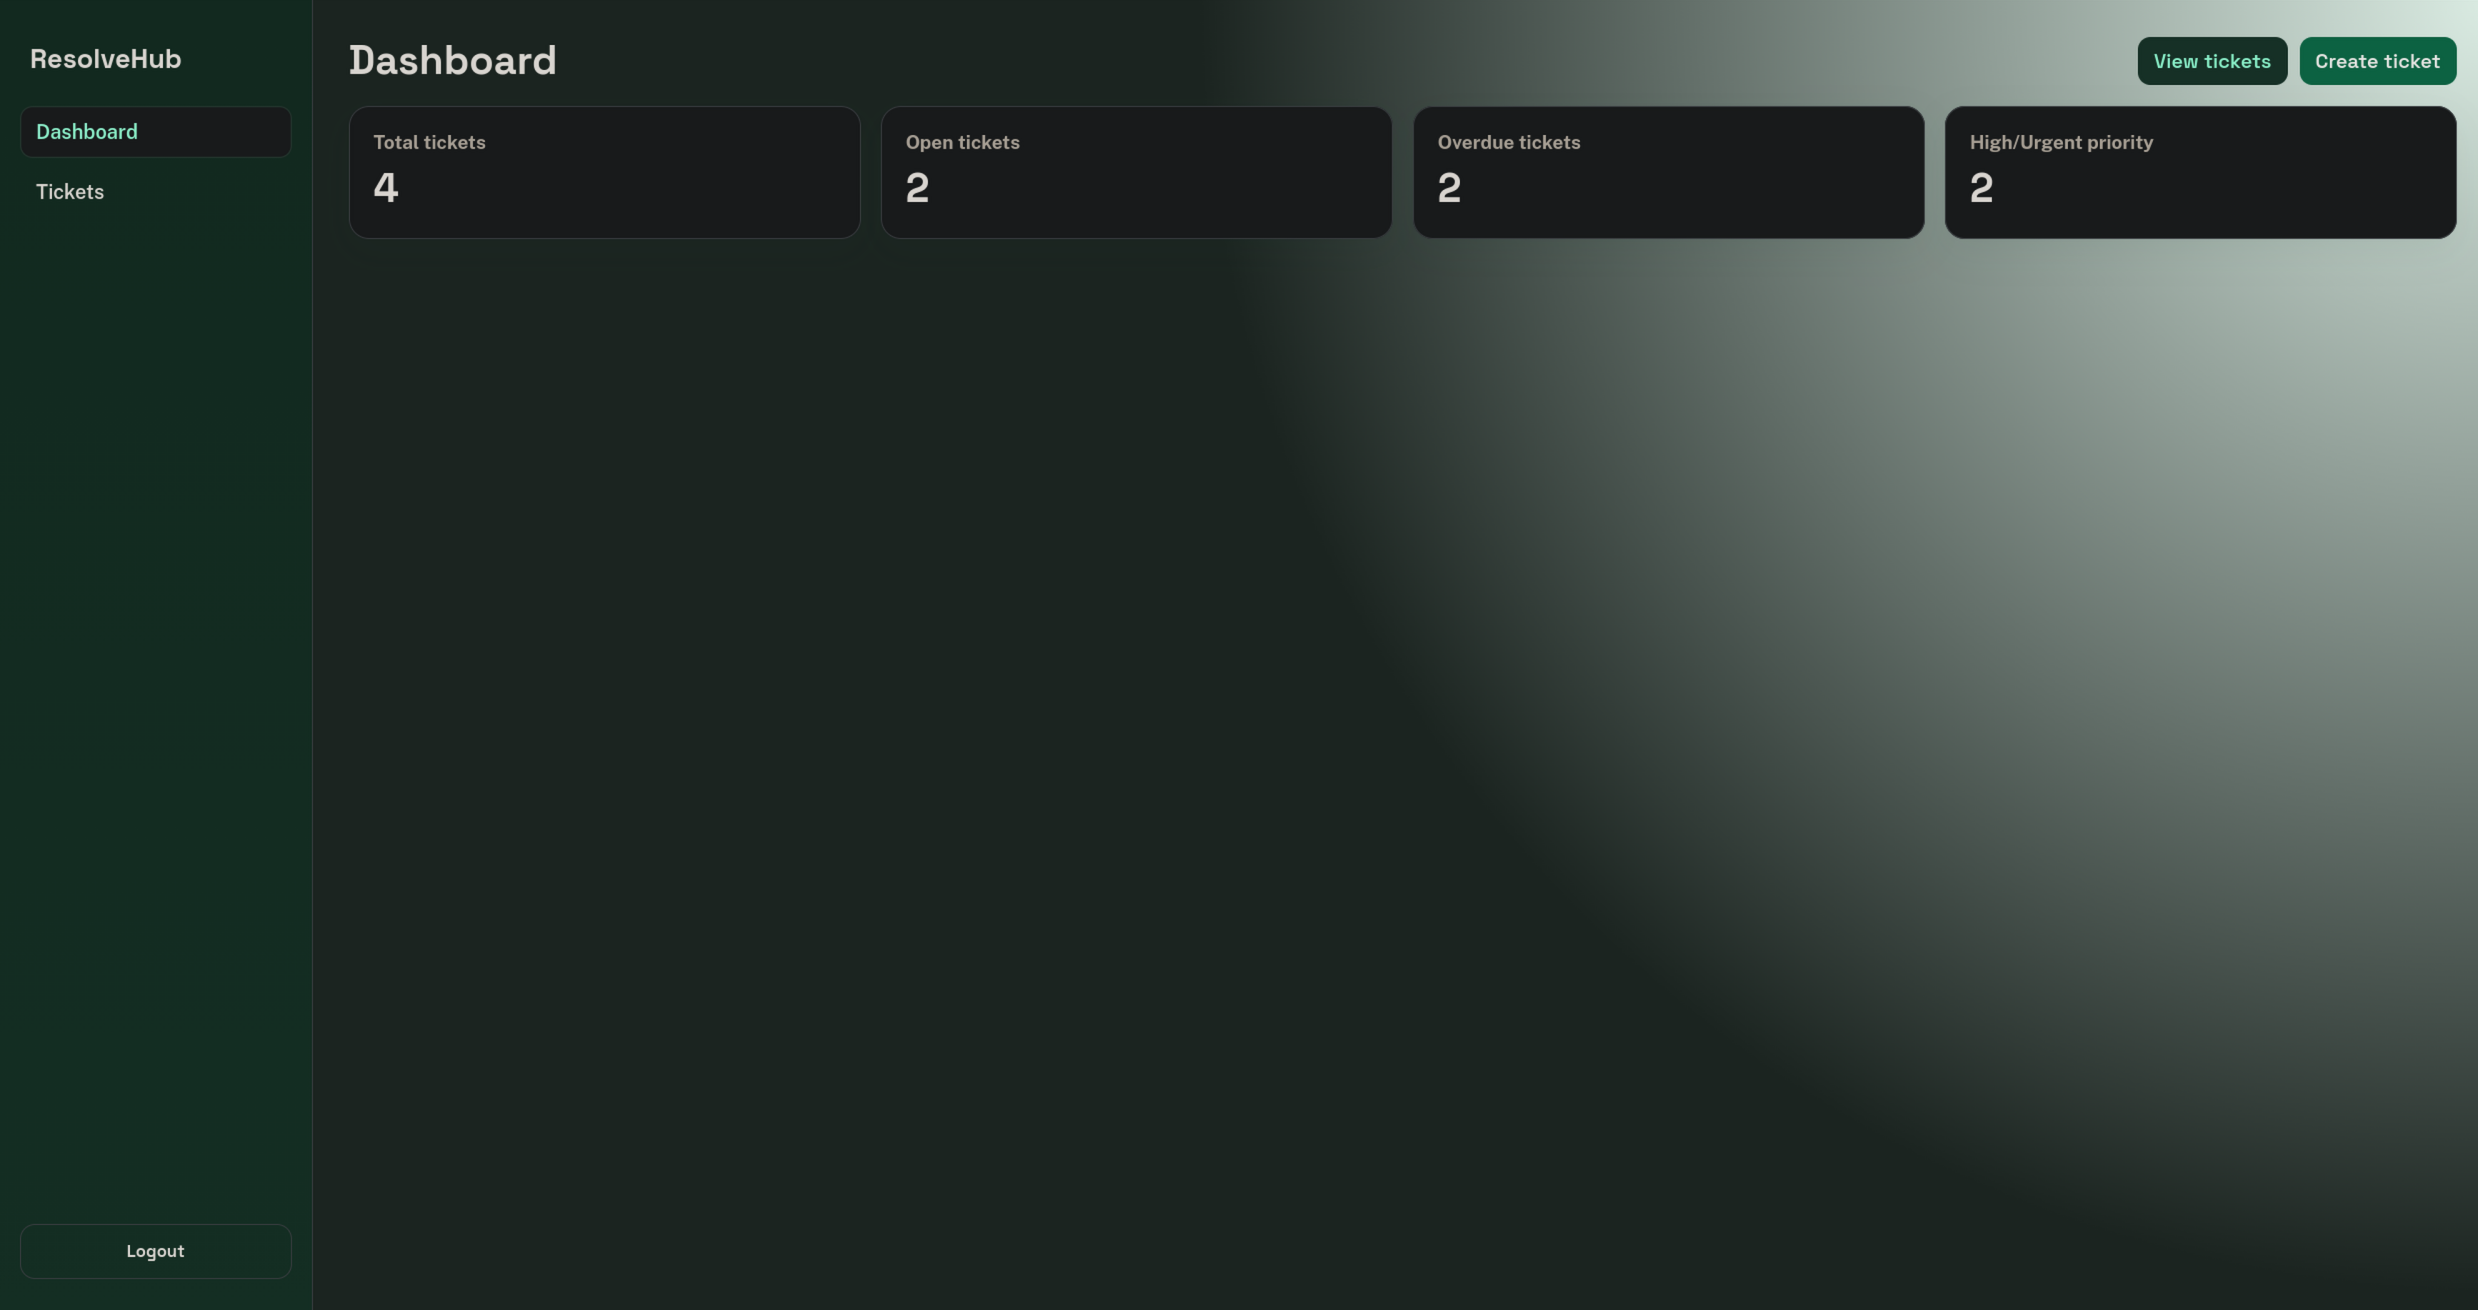
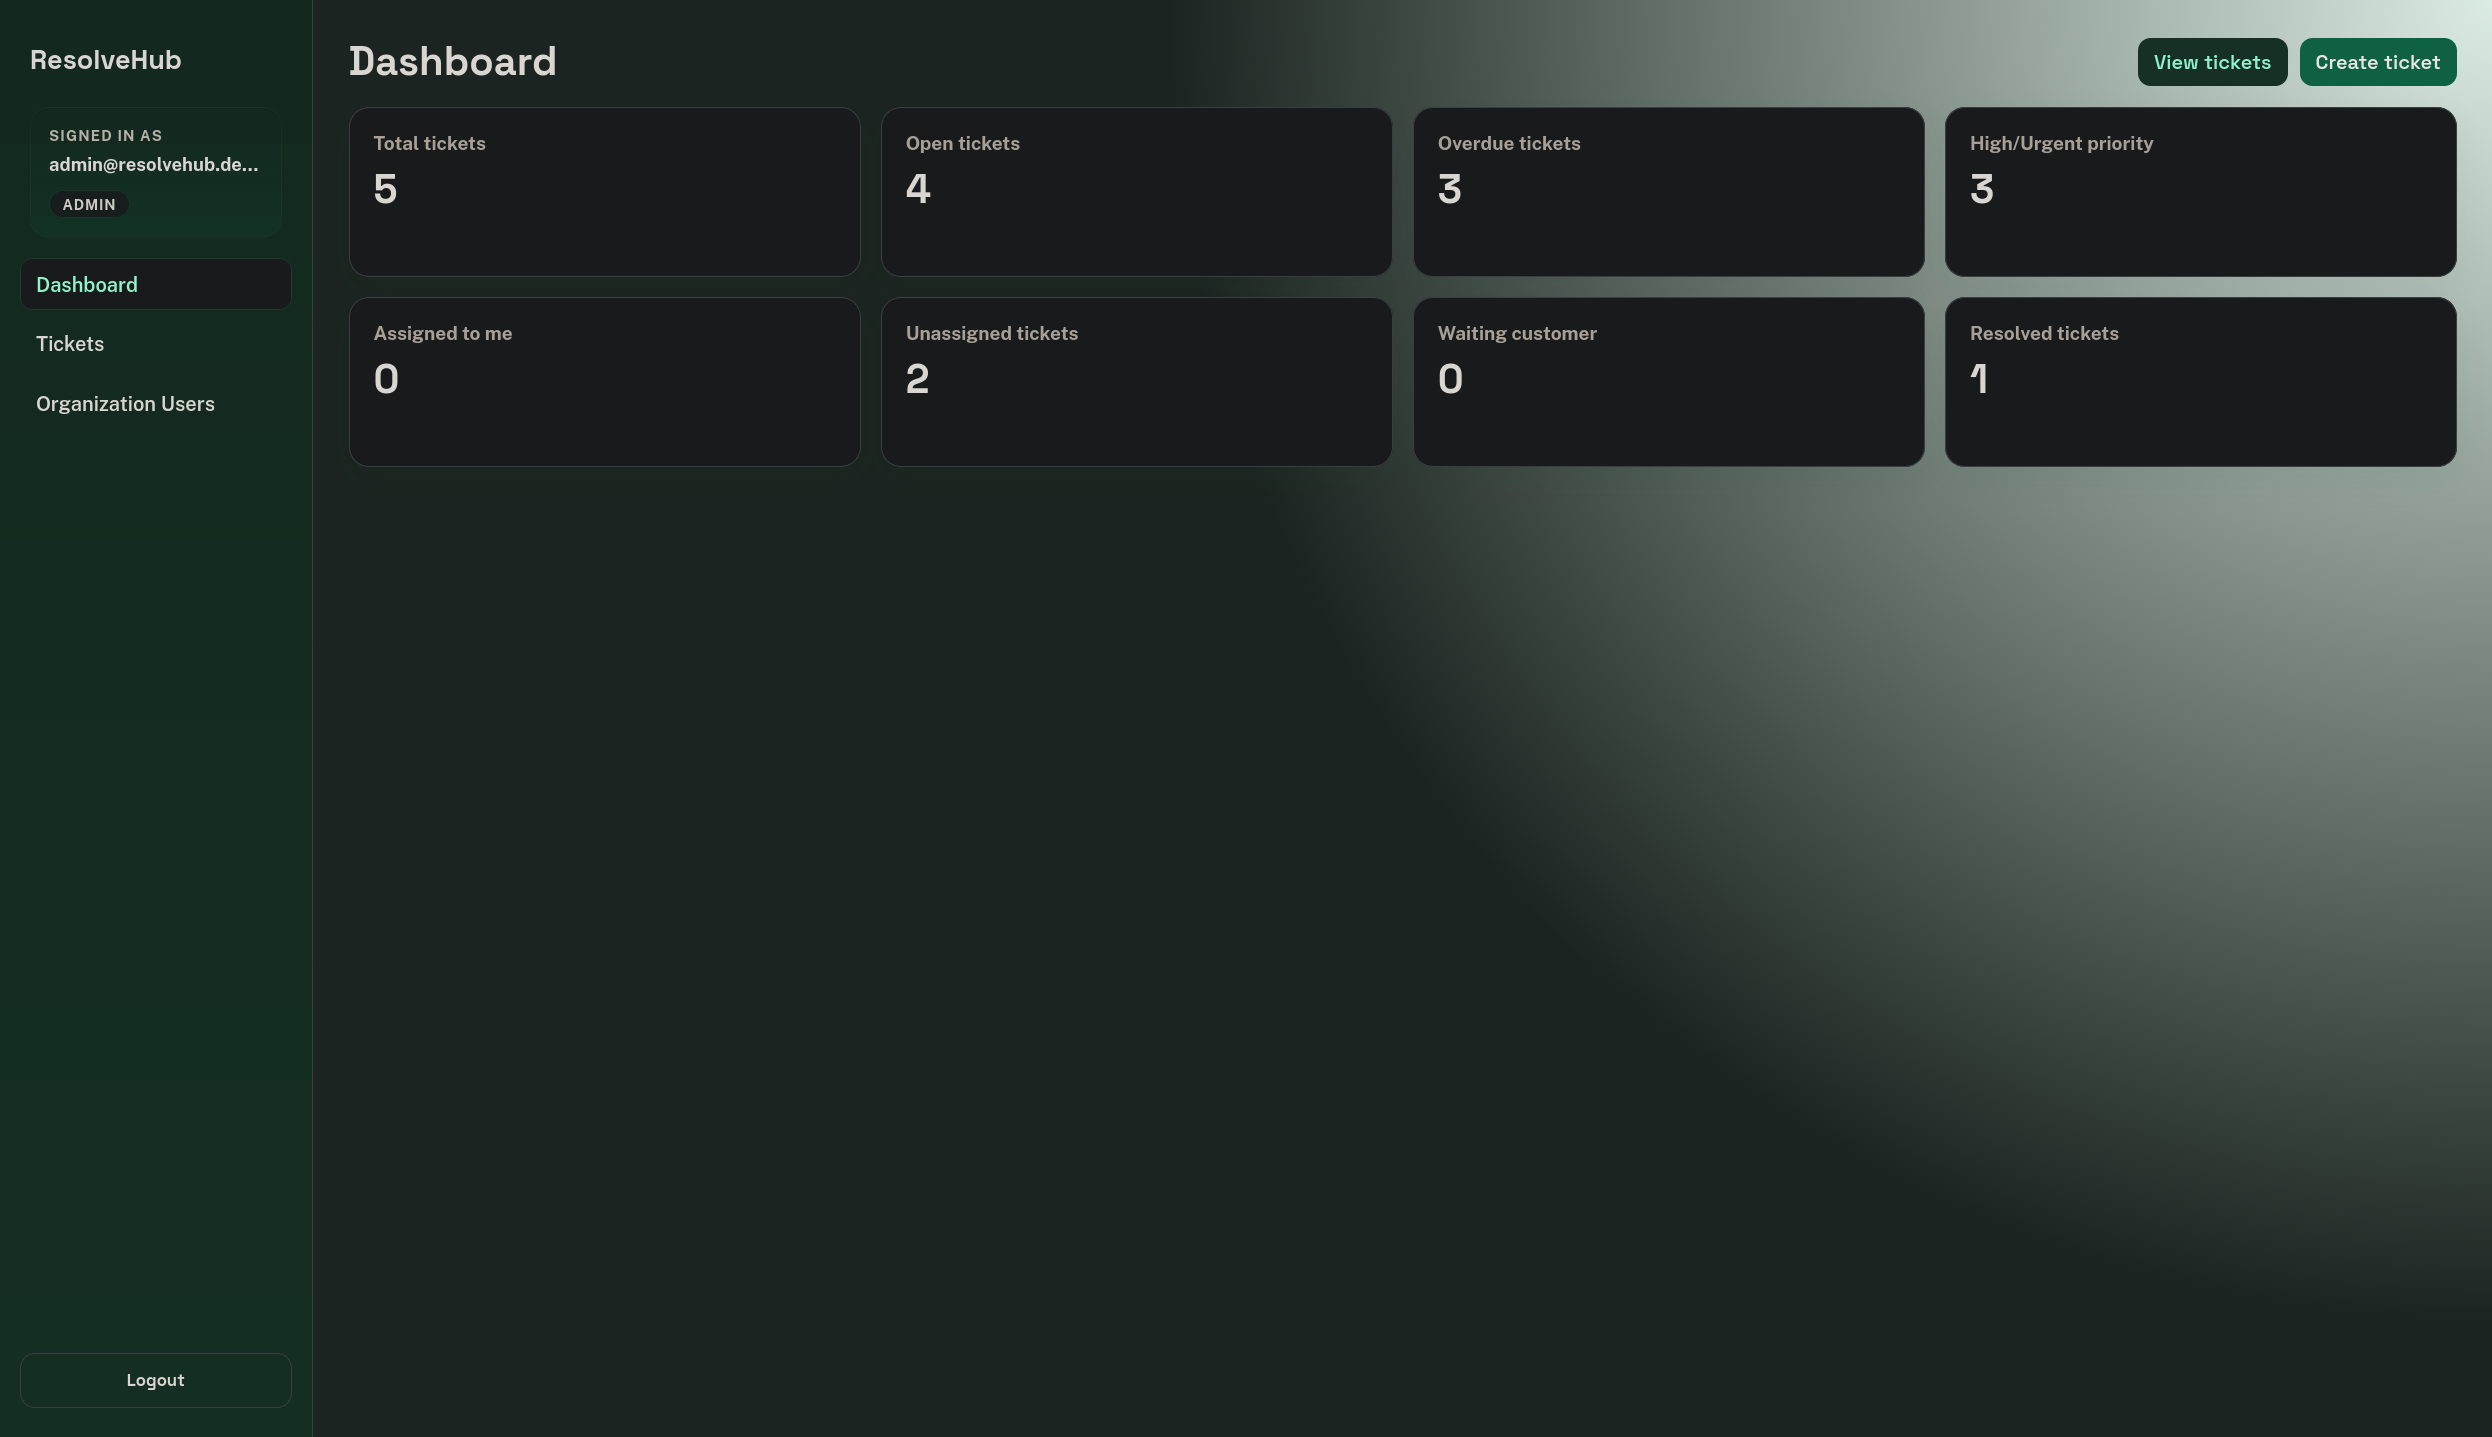
docs: update project status and screenshots

diff --git a/README.md b/README.md
@@ -8,6 +8,7 @@ ResolveHub is a portfolio-ready full-stack customer support ticket platform. It 
 - Backend health: https://resolvehub-0ssp.onrender.com/actuator/health
 - API docs: https://resolvehub-0ssp.onrender.com/swagger-ui/index.html
 - Hosted demo data guide: [docs/demo-data.md](docs/demo-data.md)
+- Deployment: Hosted on Render (frontend static site + backend web service + managed PostgreSQL)
 
 Note: the hosted backend may take a moment to wake up on the first request.
 
@@ -25,16 +26,24 @@ Note: the hosted backend may take a moment to wake up on the first request.
 
 - Organization-based multi-tenancy
 - JWT authentication and role-based access control
+- Frontend registration flow for new organizations and initial admin onboarding
+- Organization user management (list + create users with role constraints)
 - Ticket creation, listing, detail view, and status workflow
+- Staff ticket creation on behalf of customers
+- Human-readable ticket numbers (`RH-1001`, `RH-1002`, ...) with UUIDs retained for internal routing
+- Searchable customer selector for staff requester selection
+- Role-aware dashboard metrics for customer and staff personas
 - Ticket comments (public/internal rules by role)
 - Ticket assignment with role constraints
 - SLA deadline calculation and overdue detection
+- Expired-session handling (JWT `exp` checks + authenticated `401` recovery to login)
 - Ticket audit logs
 - AI-assisted ticket classification (advisory suggestions)
 - Manual apply workflow for AI category/priority suggestions
 - Ticket search and filtering (search, status, priority, category, overdue)
+- Render deployment (frontend + backend + managed PostgreSQL)
 - Dev demo data seeding
-- CI with GitHub Actions
+- GitHub Actions CI
 
 ## Demo Walkthrough
 
@@ -59,7 +68,9 @@ This walkthrough highlights portfolio-relevant product behavior, including role-
 ## Role Behavior
 
 - `CUSTOMER`: creates tickets and views/comments on own tickets
-- `AGENT`, `MANAGER`, `ADMIN`: manage tickets in their organization
+- `AGENT`: manages tickets in own organization and can create tickets on behalf of customers
+- `MANAGER`: manages tickets, can create tickets on behalf of customers, and can create organization users (`CUSTOMER`, `AGENT`)
+- `ADMIN`: full organization ticket management, can create tickets on behalf of customers, and can create organization users (`CUSTOMER`, `AGENT`, `MANAGER`, `ADMIN`)
 
 ## Tech Stack
 
@@ -80,8 +91,11 @@ Frontend:
 - Vitest
 
 Infrastructure:
+- Docker
 - Docker Compose
 - GitHub Actions
+- Render
+- Managed PostgreSQL
 
 ## Architecture Overview
 
@@ -117,7 +131,7 @@ docker compose up -d ollama
 
 ```bash
 cd backend
-./mvnw spring-boot:run
+SPRING_PROFILES_ACTIVE=dev ./mvnw spring-boot:run
 ```
 
 Backend runs on `http://localhost:8080`.
@@ -182,16 +196,19 @@ When running backend with default `dev` profile, demo data is seeded:
 
 See [docs/ai-provider-design.md](docs/ai-provider-design.md).
 
-## CI Status
+## CI/CD Status
 
 GitHub Actions workflow: [`.github/workflows/ci.yml`](.github/workflows/ci.yml)
 
-Current CI jobs:
+GitHub Actions currently provides CI (validation, test, and build checks):
 - repository validation
 - backend build and tests (`./mvnw clean verify`)
 - frontend build and tests (`npm run build`, `npm test -- --run`)
 - backend Docker image build validation
 - frontend Docker image build validation
+
+Deployment is hosted on Render (frontend, backend, and managed PostgreSQL).
+Auto-deploy behavior depends on your Render service settings and branch configuration.
 
 ## Documentation
 
@@ -204,7 +221,9 @@ Current CI jobs:
 
 ## Roadmap
 
-- Deployment automation / CD
-- Ticket list pagination and server-side filtering
-- Production-ready frontend/API integration tests
-- Production hardening (observability, secrets management, security controls)
+- Server-side pagination and filtering for high-volume ticket lists
+- End-to-end workflow tests across frontend and backend
+- Refresh-token support and session lifecycle hardening
+- Observability (centralized logs, traces, metrics, and alerting)
+- Custom domain and production TLS hardening for hosted environments
+- Secrets and security hardening for production operations

diff --git a/docs/architecture.md b/docs/architecture.md
@@ -62,7 +62,8 @@ Spring Boot API
 
 ### Ticket
 
-- `id`
+- `id` (UUID internal key)
+- `ticketNumber` (human-readable reference, e.g., `RH-1001`)
 - `organization`
 - `requester`
 - `assignee` (nullable)
@@ -108,14 +109,27 @@ Spring Boot API
 ## Role Behavior
 
 - `CUSTOMER`
-  - can create tickets
+  - can create tickets for self
   - can list/view only own tickets
   - can comment only on own tickets
   - cannot create internal comments
   - cannot assign tickets
   - cannot view audit logs
-- `AGENT`, `MANAGER`, `ADMIN`
+- `AGENT`
   - can list/view tickets in own organization
+  - can create tickets on behalf of customers in own organization
+  - can create internal/public comments in own organization
+  - can request AI classification
+- `MANAGER`
+  - can list/view tickets in own organization
+  - can create tickets on behalf of customers in own organization
+  - can create organization users with roles `CUSTOMER` or `AGENT`
+  - can create internal/public comments in own organization
+  - can request AI classification
+- `ADMIN`
+  - can list/view tickets in own organization
+  - can create tickets on behalf of customers in own organization
+  - can create organization users with roles `CUSTOMER`, `AGENT`, `MANAGER`, or `ADMIN`
   - can create internal/public comments in own organization
   - can request AI classification
 - Assignment-specific behavior:

diff --git a/docs/testing-strategy.md b/docs/testing-strategy.md
@@ -32,7 +32,7 @@ Examples:
 
 ```text
 Ticket cannot move from CLOSED to RESOLVED.
-Customer cannot close a ticket directly.
+Customer can only use customer-approved status transitions.
 URGENT ticket receives shorter SLA deadline than HIGH ticket.
 Ticket creation succeeds when AI provider throws exception.
 ```
@@ -177,12 +177,11 @@ A frontend feature is done when:
 
 ## CI expectations
 
-GitHub Actions should run:
+GitHub Actions CI should run:
 
-- Backend build
-- Backend tests
-- Frontend install
-- Frontend build
-- Frontend tests, once configured
+- Backend build and tests
+- Frontend install/build/tests
+- Backend Docker image build validation
+- Frontend Docker image build validation
 
-The CI should start as a skeleton and become stricter as implementation grows.
+CI should remain strict enough to catch regressions in authorization, multi-tenancy, and workflow behavior.

diff --git a/docs/v1.0.0-readiness-checklist.md b/docs/v1.0.0-readiness-checklist.md
@@ -9,6 +9,8 @@ Use this checklist before tagging a portfolio release.
 - [x] Ticket lifecycle includes creation, comments, status workflow, assignment, SLA/overdue, and audit logs.
 - [x] AI workflow includes suggestion endpoint and manual apply endpoint (no auto-apply).
 - [x] Ticket list supports search and filtering (status, priority, category, overdue).
+- [x] Human-readable ticket numbers are visible in ticket list/detail views.
+- [x] Staff can create tickets on behalf of customers with requester selection.
 
 ## Backend Release Checks
 

diff --git a/docs/demo-data.md b/docs/demo-data.md
@@ -21,8 +21,8 @@ That first `ADMIN` user can then create additional users inside the same organiz
 
 Within an organization:
 
-- `ADMIN` can create `CUSTOMER`, `AGENT`, and `MANAGER` users.
-- `MANAGER` can create `CUSTOMER`, `AGENT`, and `MANAGER` users.
+- `ADMIN` can create `CUSTOMER`, `AGENT`, `MANAGER`, and `ADMIN` users.
+- `MANAGER` can create `CUSTOMER` and `AGENT` users.
 - `CUSTOMER` cannot create users.
 - `AGENT` cannot create users.
 

diff --git a/docs/deployment.md b/docs/deployment.md
@@ -29,7 +29,7 @@ docker compose up -d ollama
 
 ```bash
 cd backend
-./mvnw spring-boot:run
+SPRING_PROFILES_ACTIVE=dev ./mvnw spring-boot:run
 ```
 
 Backend URL:
@@ -70,7 +70,7 @@ npm test -- --run
 npm run build
 ```
 
-CI validates application tests, frontend build, and Docker image builds.
+GitHub Actions CI validates backend tests, frontend tests/build, and Docker image builds.
 
 ## Docker Compose App Profile
 
